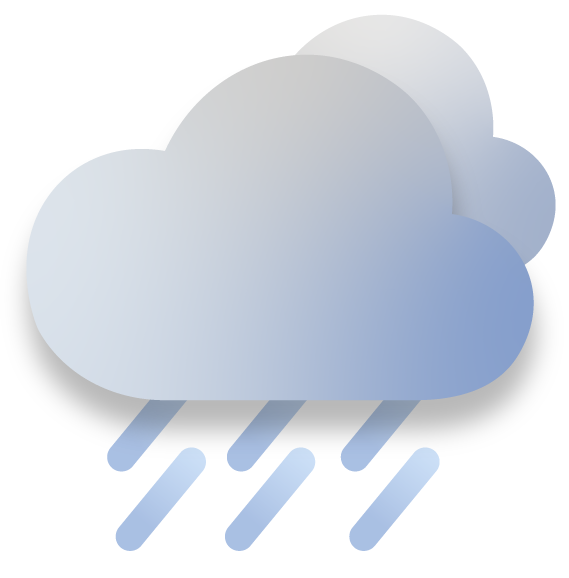
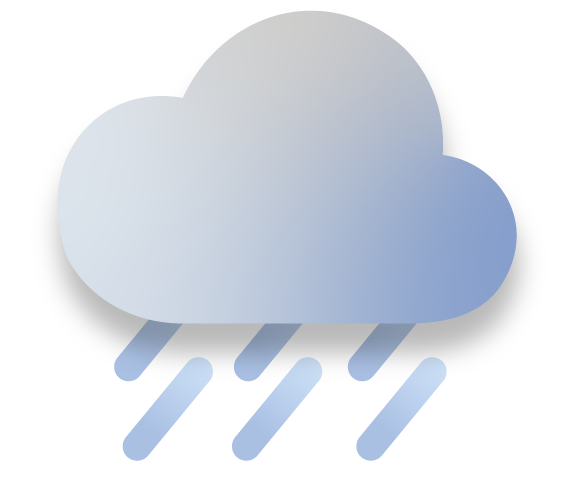
Added weather forecast component

diff --git a/src/WeatherForecast.js b/src/WeatherForecast.js
@@ -1,0 +1,44 @@
+import React, { useState, useEffect } from "react";
+import WeatherForecastDay from "./WeatherForecastDay";
+import "./WeatherForecast.css";
+import axios from "axios";
+
+export default function WeatherForecast(props) {
+  let [loaded, setLoaded] = useState(false);
+  let [forecast, setForecast] = useState(null);
+
+  useEffect(() => {
+    const apiKey = "8o03bb70ba39844fdc4a5a5t25cc70b6";
+    let apiUrl = `https://api.shecodes.io/weather/v1/forecast?query=${props.city}&key=${apiKey}&units=metric`;
+
+    axios.get(apiUrl).then(handleResponse);
+
+    setLoaded(false);
+  }, [props.city]);
+
+  function handleResponse(response) {
+    console.log(response.data);
+    setForecast(response.data.daily);
+    setLoaded(true);
+  }
+
+  if (loaded) {
+    return (
+      <div className="WeatherForecast">
+        <div className="row">
+          {forecast.map(function (dailyForecast, index) {
+            if (index < 5) {
+              return (
+                <div className="col ForecastResults key={index}">
+                  <WeatherForecastDay data={dailyForecast} />
+                </div>
+              );
+            }
+          })}
+        </div>
+      </div>
+    );
+  } else {
+    return null;
+  }
+}

diff --git a/src/WeatherForecastDay.js b/src/WeatherForecastDay.js
@@ -1,0 +1,33 @@
+import react from "react";
+import WeatherIcon from "./WeatherIcon.js";
+import "./WeatherForecast.css";
+
+export default function WeatherForecastDay(props) {
+  function maxTemperature() {
+    let temperature = Math.round(props.data.temperature.maximum);
+    return `${temperature}°`;
+  }
+  function minTemperature() {
+    let temperature = Math.round(props.data.temperature.minimum);
+    return `${temperature}°`;
+  }
+
+  function day() {
+    let date = new Date(props.data.time * 1000);
+    let day = date.getDay();
+
+    let days = ["Sun", "Mon", "Tue", "Wed", "Thu", "Fri", "Sat"];
+
+    return days[day];
+  }
+  return (
+    <div>
+      <div className="ForecastDay">{day()}</div>
+      <WeatherIcon code={props.data.condition.icon} width={40} />
+      <div className="ForecastTemperatures">
+        <span className="TemperatureMax">{maxTemperature()}</span>
+        <span className="TemperatureMin">{minTemperature()}</span>
+      </div>
+    </div>
+  );
+}

diff --git a/src/Weather.js b/src/Weather.js
@@ -1,5 +1,6 @@
 import React, { useState, useEffect } from "react";
 import WeatherInfo from "./WeatherInfo";
+import WeatherForecast from "./WeatherForecast";
 import "./Weather.css";
 import axios from "axios";
 
@@ -9,7 +10,7 @@ export default function Weather({ defaultCity, setAppBackground }) {
 
   useEffect(() => {
     search();
-  }, []); // Run once when component mounts
+  }, []);
 
   function handleResponse(response) {
     const weatherData = {
@@ -110,6 +111,7 @@ export default function Weather({ defaultCity, setAppBackground }) {
           </div>
         </form>
         <WeatherInfo data={weatherData} />
+        <WeatherForecast city={weatherData.city} />
       </div>
     );
   } else {

diff --git a/src/WeatherInfo.js b/src/WeatherInfo.js
@@ -19,7 +19,11 @@ export default function WeatherInfo(props) {
           <WeatherTemperature celsius={props.data.temperature} />
         </div>
         <div className="col-5 iconBlock">
-          <WeatherIcon code={props.data.icon} alt={props.data.condition} />
+          <WeatherIcon
+            code={props.data.icon}
+            alt={props.data.condition}
+            width={170}
+          />
           <ul className="weather-data ms-3">
             <li>Humidity: {props.data.humidity} %</li>
             <li>Wind: {Math.round(props.data.wind)} km/h</li>

diff --git a/src/WeatherForecast.css b/src/WeatherForecast.css
@@ -1,0 +1,30 @@
+.WeatherForecast {
+  text-align: center;
+}
+
+.TemperatureMax {
+  font-weight: 500;
+}
+
+.TemperatureMin {
+  font-weight: 300;
+  margin-left: 5px;
+}
+
+.ForecastDay {
+  font-weight: 200;
+  margin-bottom: 5px;
+}
+
+.ForecastTemperatures {
+  margin-top: 3px;
+}
+
+.ForecastResults {
+  background-color: #ffffff30;
+  padding: 15px;
+  border-radius: 15px;
+  border: solid 0.3px white;
+  margin-right: 14px;
+  margin-left: 14px;
+}

diff --git a/src/WeatherIcon.js b/src/WeatherIcon.js
@@ -35,7 +35,7 @@ export default function WeatherIcon(props) {
 
   return (
     <div className="weatherIcon">
-      <img src={imageSrc} alt={props.code} width={180} height={150} />
+      <img src={imageSrc} alt={props.code} width={props.width} />
     </div>
   );
 }
